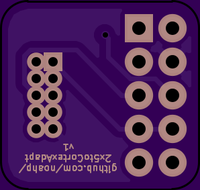
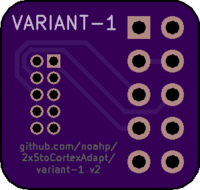
update renders

diff --git a/README.md b/README.md
@@ -8,6 +8,11 @@ when connecting ST-Link v2 clones to a standard ARM 2x5 1.27mm pitch header.
 I know of 2 variants of the ST-Link v2, with different pinouts on the 2x5 0.1"
 (2.54mm) header. Different adapter boards provided for each variant.
 
+One way to distinguish the variants; when unplugged, check for continuity on pins 3+4 or 5+6.
+
+- pins 3+4 shorted, **variant-1**
+- pins 5+6 shorted, **variant-1**
+
 ### Variant 1
 
 Older model I bought in ~2016.
@@ -43,14 +48,18 @@ Labeling appears to be correct on these devices.
 
 ## PCB Renders
 
-![top](variant-1/pcb_render_top.png)..
+### Variant-1
+
+![top](variant-1/pcb_render_top.png)
 ![bottom](variant-1/pcb_render_bottom.png)
 
-### Varian-1 3d render
+![3d-top](variant-1/2x5toCortexAdapt_top.png)
+![3d-bottom](variant-1/2x5toCortexAdapt_bottom.png)
 
-![variant-1-3d](variant-1/2x5toCortexAdapt.png)
+### Variant-2
 
-### Variant-2 3d highlight
+![top](variant-2/pcb_render_top.png)
+![bottom](variant-2/pcb_render_bottom.png)
 
 ![3d](variant-2/2x5toCortexAdapt-bottom.png)
 
